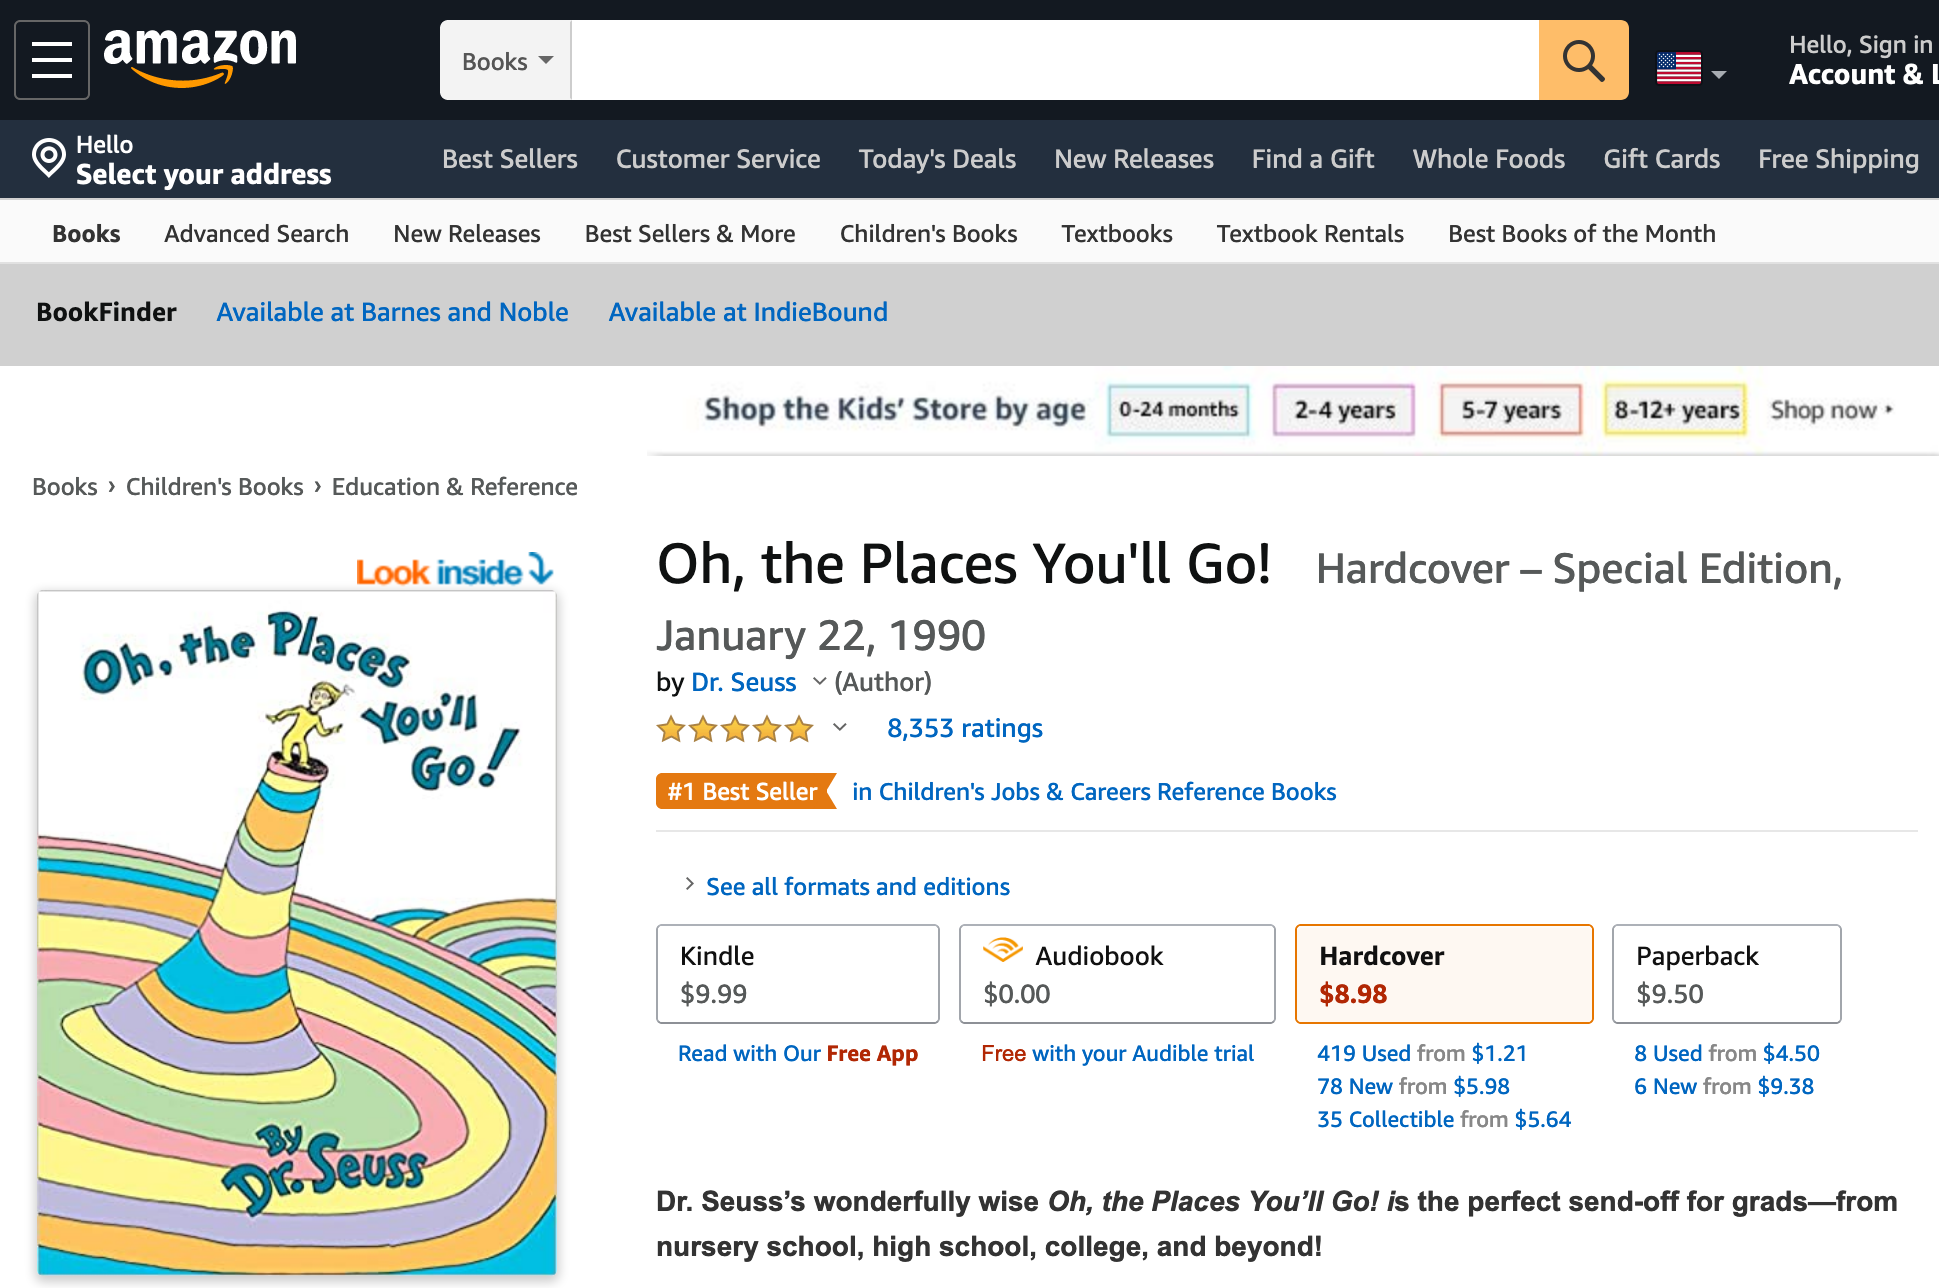
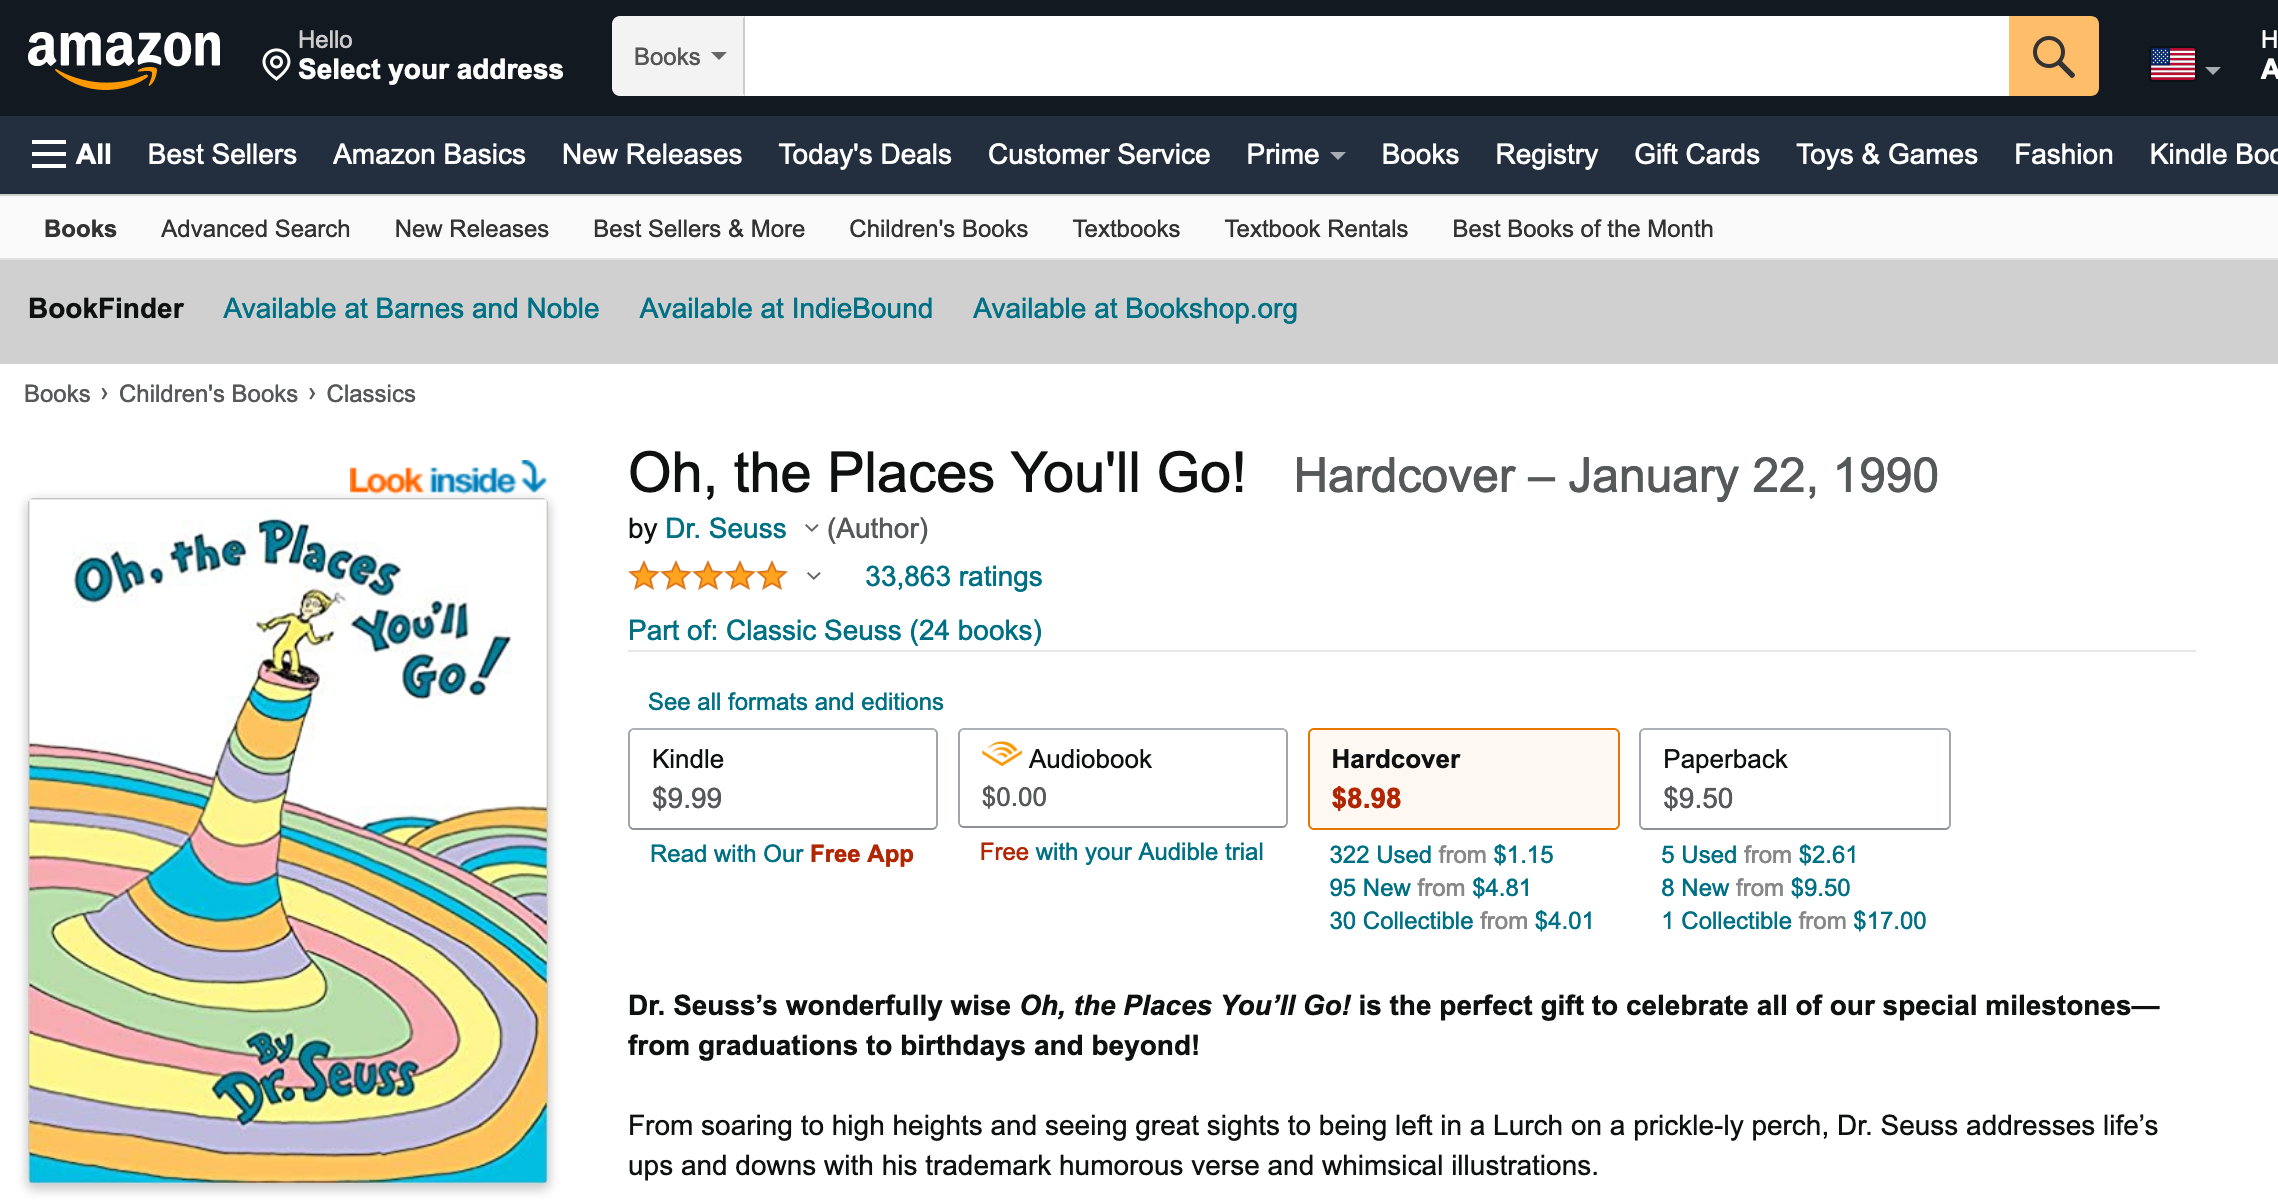
Update screenshot

Changed region(s): [[0.0, 0.3694, 0.9902, 1.0], [0.0, 0.0, 1.0, 0.3386], [0.7117, 0.6156, 0.8045, 0.6772]]

diff --git a/README.md b/README.md
@@ -15,6 +15,8 @@ NOTE: This only works for Amazon's US domains for now.
 
 ![Bookfinder on Amazon](bookfinder.png)
 
+(*from [this page](https://www.amazon.com/Oh-Places-Youll-Dr-Seuss/dp/0679805273)*).
+
 ## Installation
 
 Install from [addons.mozilla.org][amo].
